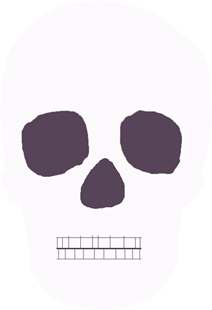
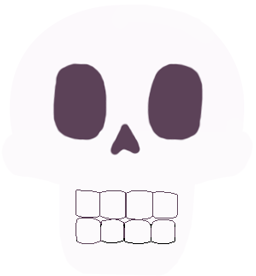
Update skull image

Changed region(s): [[0.0849, 0.2029, 0.7075, 0.8986], [0.566, 0.2319, 0.8774, 0.5797]]

diff --git a/app/styles/main.scss b/app/styles/main.scss
@@ -56,11 +56,10 @@ body {
 
 #skull {
   background-image: url("../images/skull.png");
-  width: 212px;
-  height: 310px;
+  width: 256px;
+  height: 276px;
   position: absolute;
   left: 50%;
   bottom: 210px;
-  margin-left: -106px;
-
+  margin-left: -128px;
 }
